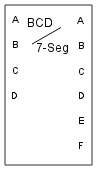
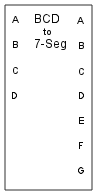
Updates

diff --git a/assets/shapes/index.js b/assets/shapes/index.js
@@ -1338,67 +1338,73 @@ var draw2d_circuit_decoder_BCDto7Seg = draw2d.SetFigure.extend({
 
    init:function(attr, setter, getter)
    {
-     this._super( $.extend({stroke:0, bgColor:null, width:87,height:160},attr), setter, getter);
+     this._super( $.extend({stroke:0, bgColor:null, width:87,height:185},attr), setter, getter);
      var port;
      // out_a
-     port = this.createPort("output", new draw2d.layout.locator.XYRelPortLocator(101.14942528735631, 9.375));
+     port = this.createPort("output", new draw2d.layout.locator.XYRelPortLocator(101.14942528735631, 8.108108108108109));
      port.setConnectionDirection(1);
      port.setBackgroundColor("#37B1DE");
      port.setName("out_a");
      port.setMaxFanOut(20);
      // out_b
-     port = this.createPort("output", new draw2d.layout.locator.XYRelPortLocator(101.14942528735631, 25));
+     port = this.createPort("output", new draw2d.layout.locator.XYRelPortLocator(101.14942528735631, 21.62162162162162));
      port.setConnectionDirection(1);
      port.setBackgroundColor("#37B1DE");
      port.setName("out_b");
      port.setMaxFanOut(20);
      // out_c
-     port = this.createPort("hybrid", new draw2d.layout.locator.XYRelPortLocator(101.14942528735631, 40.625));
+     port = this.createPort("output", new draw2d.layout.locator.XYRelPortLocator(101.14942528735631, 35.13513513513514));
      port.setConnectionDirection(1);
      port.setBackgroundColor("#37B1DE");
      port.setName("out_c");
      port.setMaxFanOut(20);
      // out_d
-     port = this.createPort("output", new draw2d.layout.locator.XYRelPortLocator(101.14942528735631, 56.25));
+     port = this.createPort("output", new draw2d.layout.locator.XYRelPortLocator(101.14942528735631, 48.64864864864865));
      port.setConnectionDirection(1);
      port.setBackgroundColor("#37B1DE");
      port.setName("out_d");
      port.setMaxFanOut(20);
      // out_e
-     port = this.createPort("output", new draw2d.layout.locator.XYRelPortLocator(101.14942528735631, 71.875));
+     port = this.createPort("output", new draw2d.layout.locator.XYRelPortLocator(101.14942528735631, 62.16216216216217));
      port.setConnectionDirection(1);
      port.setBackgroundColor("#37B1DE");
      port.setName("out_e");
      port.setMaxFanOut(20);
      // out_f
-     port = this.createPort("output", new draw2d.layout.locator.XYRelPortLocator(101.14942528735631, 87.5));
+     port = this.createPort("output", new draw2d.layout.locator.XYRelPortLocator(101.14942528735631, 75.67567567567568));
      port.setConnectionDirection(1);
      port.setBackgroundColor("#37B1DE");
      port.setName("out_f");
      port.setMaxFanOut(20);
      // in_a
-     port = this.addPort(new DecoratedInputPort(), new draw2d.layout.locator.XYRelPortLocator(-1.7563218390786532, 9.375));
+     port = this.addPort(new DecoratedInputPort(), new draw2d.layout.locator.XYRelPortLocator(-1.7563218390786532, 8.108108108108109));
      port.setConnectionDirection(3);
      port.setBackgroundColor("#37B1DE");
      port.setName("in_a");
      port.setMaxFanOut(20);
      // in_b
-     port = this.addPort(new DecoratedInputPort(), new draw2d.layout.locator.XYRelPortLocator(-1.7563218390786532, 25));
+     port = this.addPort(new DecoratedInputPort(), new draw2d.layout.locator.XYRelPortLocator(-1.7563218390786532, 21.62162162162162));
      port.setConnectionDirection(3);
      port.setBackgroundColor("#37B1DE");
      port.setName("in_b");
      port.setMaxFanOut(20);
      // in_c
-     port = this.addPort(new DecoratedInputPort(), new draw2d.layout.locator.XYRelPortLocator(-1.7563218390786532, 40.625));
+     port = this.addPort(new DecoratedInputPort(), new draw2d.layout.locator.XYRelPortLocator(-1.7563218390786532, 35.13513513513514));
      port.setConnectionDirection(3);
      port.setBackgroundColor("#37B1DE");
      port.setName("in_c");
      port.setMaxFanOut(20);
      // in_d
-     port = this.addPort(new DecoratedInputPort(), new draw2d.layout.locator.XYRelPortLocator(-2.2988505747126435, 56.25));
+     port = this.addPort(new DecoratedInputPort(), new draw2d.layout.locator.XYRelPortLocator(-2.2988505747126435, 48.64864864864865));
      port.setConnectionDirection(3);
      port.setBackgroundColor("#37B1DE");
      port.setName("in_d");
+     port.setMaxFanOut(20);
+     // out_g
+     port = this.createPort("output", new draw2d.layout.locator.XYRelPortLocator(101.14942528735631, 89.00583783783766));
+     port.setConnectionDirection(1);
+     port.setBackgroundColor("#37B1DE");
+     port.setName("out_g");
      port.setMaxFanOut(20);
      this.persistPorts=false;
    },
@@ -1407,7 +1413,7 @@ var draw2d_circuit_decoder_BCDto7Seg = draw2d.SetFigure.extend({
    {
       var shape = this._super();
       this.originalWidth = 87;
-      this.originalHeight= 160;
+      this.originalHeight= 185;
       return shape;
    },
 
@@ -1416,23 +1422,23 @@ var draw2d_circuit_decoder_BCDto7Seg = draw2d.SetFigure.extend({
        this.canvas.paper.setStart();
 
         // BoundingBox
-        shape = this.canvas.paper.path("M0,0 L87,0 L87,160 L0,160");
+        shape = this.canvas.paper.path("M0,0 L87,0 L87,185 L0,185");
         shape.attr({"stroke":"none","stroke-width":0,"fill":"none"});
         shape.data("name","BoundingBox");
         
         // undefined
-        shape = this.canvas.paper.path('M0 0L87 0L87 160L0 160Z');
+        shape = this.canvas.paper.path('M0 0L87 0L87 185L0 185Z');
         shape.attr({"stroke":"#303030","stroke-width":1,"fill":"#FFFFFF","opacity":1});
         shape.data("name","undefined");
         
         // Label
         shape = this.canvas.paper.text(0,0,'BCD');
-        shape.attr({"x":22.47200000000157,"y":18.25,"text-anchor":"start","text":"BCD","font-family":"\"Arial\"","font-size":12,"stroke":"none","fill":"#080808","stroke-scale":true,"font-weight":"normal","stroke-width":0,"opacity":1});
+        shape.attr({"x":29.3359375,"y":13.75,"text-anchor":"start","text":"BCD","font-family":"\"Arial\"","font-size":12,"stroke":"none","fill":"#080808","stroke-scale":true,"font-weight":"normal","stroke-width":0,"opacity":1});
         shape.data("name","Label");
         
         // Label
         shape = this.canvas.paper.text(0,0,'7-Seg');
-        shape.attr({"x":31.65625,"y":44.2421875,"text-anchor":"start","text":"7-Seg","font-family":"\"Arial\"","font-size":12,"stroke":"none","fill":"#080808","stroke-scale":true,"font-weight":"normal","stroke-width":0,"opacity":1});
+        shape.attr({"x":29.3359375,"y":39.25,"text-anchor":"start","text":"7-Seg","font-family":"\"Arial\"","font-size":12,"stroke":"none","fill":"#080808","stroke-scale":true,"font-weight":"normal","stroke-width":0,"opacity":1});
         shape.data("name","Label");
         
         // Label
@@ -1485,15 +1491,15 @@ var draw2d_circuit_decoder_BCDto7Seg = draw2d.SetFigure.extend({
         shape.attr({"x":6.472000000001572,"y":90.5,"text-anchor":"start","text":"D","font-family":"\"Arial\"","font-size":10,"stroke":"none","fill":"#080808","stroke-scale":true,"font-weight":"normal","stroke-width":0,"opacity":1});
         shape.data("name","Label");
         
-        // Line_shadow
-        shape = this.canvas.paper.path('M55.5 22.5L27.5,38.5');
-        shape.attr({"stroke-linecap":"round","stroke-linejoin":"round","stroke":"none","stroke-width":1,"opacity":1});
-        shape.data("name","Line_shadow");
+        // Label
+        shape = this.canvas.paper.text(0,0,'to');
+        shape.attr({"x":38.3359375,"y":26.9765625,"text-anchor":"start","text":"to","font-family":"\"Arial\"","font-size":10,"stroke":"none","fill":"#080808","stroke-scale":true,"font-weight":"normal","stroke-width":0,"opacity":1});
+        shape.data("name","Label");
         
-        // Line
-        shape = this.canvas.paper.path('M55.5 22.5L27.5,38.5');
-        shape.attr({"stroke-linecap":"round","stroke-linejoin":"round","stroke":"#0D0D0D","stroke-width":1,"opacity":1});
-        shape.data("name","Line");
+        // Label
+        shape = this.canvas.paper.text(0,0,'G');
+        shape.attr({"x":72,"y":165.5703999999996,"text-anchor":"start","text":"G","font-family":"\"Arial\"","font-size":10,"stroke":"none","fill":"#080808","stroke-scale":true,"font-weight":"normal","stroke-width":0,"opacity":1});
+        shape.data("name","Label");
         
 
         return this.canvas.paper.setFinish();
@@ -1654,6 +1660,18 @@ draw2d_circuit_decoder_BCDto7Seg = draw2d_circuit_decoder_BCDto7Seg.extend({
      **/
     calculate:function()
     {
+        var e = (this.getInputPort("in_a").getValue()?1:0) +
+                (this.getInputPort("in_b").getValue()?2:0) +
+                (this.getInputPort("in_c").getValue()?4:0) +
+                (this.getInputPort("in_d").getValue()?8:0);
+
+       this.getOutputPort("out_a").setValue( ((e!=1) &&(e!=4)&&(e!=6)&& (e<10)));
+       this.getOutputPort("out_b").setValue( ((e!=5) &&(e!=6)&& (e<10)));
+       this.getOutputPort("out_c").setValue( ((e!=2) &&(e<10)));
+       this.getOutputPort("out_d").setValue( (((e!=1)&&(e!=4)&&(e!=7))||(e>10)));
+       this.getOutputPort("out_e").setValue( (((e==0)||(e==2)||(e==6)||(e==8))||(e>9)));
+       this.getOutputPort("out_f").setValue( ((e!=1) &&(e!=2)&&(e!=3)&&(e!=7)&&(e<10)));
+       this.getOutputPort("out_g").setValue( (((e!=0)&&(e!=1)&&(e!=7))||(e>9)));
     },
 
 

diff --git a/assets/shapes/draw2d_circuit_decoder_BCDto7Seg.js b/assets/shapes/draw2d_circuit_decoder_BCDto7Seg.js
@@ -11,67 +11,73 @@ var draw2d_circuit_decoder_BCDto7Seg = draw2d.SetFigure.extend({
 
    init:function(attr, setter, getter)
    {
-     this._super( $.extend({stroke:0, bgColor:null, width:87,height:160},attr), setter, getter);
+     this._super( $.extend({stroke:0, bgColor:null, width:87,height:185},attr), setter, getter);
      var port;
      // out_a
-     port = this.createPort("output", new draw2d.layout.locator.XYRelPortLocator(101.14942528735631, 9.375));
+     port = this.createPort("output", new draw2d.layout.locator.XYRelPortLocator(101.14942528735631, 8.108108108108109));
      port.setConnectionDirection(1);
      port.setBackgroundColor("#37B1DE");
      port.setName("out_a");
      port.setMaxFanOut(20);
      // out_b
-     port = this.createPort("output", new draw2d.layout.locator.XYRelPortLocator(101.14942528735631, 25));
+     port = this.createPort("output", new draw2d.layout.locator.XYRelPortLocator(101.14942528735631, 21.62162162162162));
      port.setConnectionDirection(1);
      port.setBackgroundColor("#37B1DE");
      port.setName("out_b");
      port.setMaxFanOut(20);
      // out_c
-     port = this.createPort("hybrid", new draw2d.layout.locator.XYRelPortLocator(101.14942528735631, 40.625));
+     port = this.createPort("output", new draw2d.layout.locator.XYRelPortLocator(101.14942528735631, 35.13513513513514));
      port.setConnectionDirection(1);
      port.setBackgroundColor("#37B1DE");
      port.setName("out_c");
      port.setMaxFanOut(20);
      // out_d
-     port = this.createPort("output", new draw2d.layout.locator.XYRelPortLocator(101.14942528735631, 56.25));
+     port = this.createPort("output", new draw2d.layout.locator.XYRelPortLocator(101.14942528735631, 48.64864864864865));
      port.setConnectionDirection(1);
      port.setBackgroundColor("#37B1DE");
      port.setName("out_d");
      port.setMaxFanOut(20);
      // out_e
-     port = this.createPort("output", new draw2d.layout.locator.XYRelPortLocator(101.14942528735631, 71.875));
+     port = this.createPort("output", new draw2d.layout.locator.XYRelPortLocator(101.14942528735631, 62.16216216216217));
      port.setConnectionDirection(1);
      port.setBackgroundColor("#37B1DE");
      port.setName("out_e");
      port.setMaxFanOut(20);
      // out_f
-     port = this.createPort("output", new draw2d.layout.locator.XYRelPortLocator(101.14942528735631, 87.5));
+     port = this.createPort("output", new draw2d.layout.locator.XYRelPortLocator(101.14942528735631, 75.67567567567568));
      port.setConnectionDirection(1);
      port.setBackgroundColor("#37B1DE");
      port.setName("out_f");
      port.setMaxFanOut(20);
      // in_a
-     port = this.addPort(new DecoratedInputPort(), new draw2d.layout.locator.XYRelPortLocator(-1.7563218390786532, 9.375));
+     port = this.addPort(new DecoratedInputPort(), new draw2d.layout.locator.XYRelPortLocator(-1.7563218390786532, 8.108108108108109));
      port.setConnectionDirection(3);
      port.setBackgroundColor("#37B1DE");
      port.setName("in_a");
      port.setMaxFanOut(20);
      // in_b
-     port = this.addPort(new DecoratedInputPort(), new draw2d.layout.locator.XYRelPortLocator(-1.7563218390786532, 25));
+     port = this.addPort(new DecoratedInputPort(), new draw2d.layout.locator.XYRelPortLocator(-1.7563218390786532, 21.62162162162162));
      port.setConnectionDirection(3);
      port.setBackgroundColor("#37B1DE");
      port.setName("in_b");
      port.setMaxFanOut(20);
      // in_c
-     port = this.addPort(new DecoratedInputPort(), new draw2d.layout.locator.XYRelPortLocator(-1.7563218390786532, 40.625));
+     port = this.addPort(new DecoratedInputPort(), new draw2d.layout.locator.XYRelPortLocator(-1.7563218390786532, 35.13513513513514));
      port.setConnectionDirection(3);
      port.setBackgroundColor("#37B1DE");
      port.setName("in_c");
      port.setMaxFanOut(20);
      // in_d
-     port = this.addPort(new DecoratedInputPort(), new draw2d.layout.locator.XYRelPortLocator(-2.2988505747126435, 56.25));
+     port = this.addPort(new DecoratedInputPort(), new draw2d.layout.locator.XYRelPortLocator(-2.2988505747126435, 48.64864864864865));
      port.setConnectionDirection(3);
      port.setBackgroundColor("#37B1DE");
      port.setName("in_d");
+     port.setMaxFanOut(20);
+     // out_g
+     port = this.createPort("output", new draw2d.layout.locator.XYRelPortLocator(101.14942528735631, 89.00583783783766));
+     port.setConnectionDirection(1);
+     port.setBackgroundColor("#37B1DE");
+     port.setName("out_g");
      port.setMaxFanOut(20);
      this.persistPorts=false;
    },
@@ -80,7 +86,7 @@ var draw2d_circuit_decoder_BCDto7Seg = draw2d.SetFigure.extend({
    {
       var shape = this._super();
       this.originalWidth = 87;
-      this.originalHeight= 160;
+      this.originalHeight= 185;
       return shape;
    },
 
@@ -89,23 +95,23 @@ var draw2d_circuit_decoder_BCDto7Seg = draw2d.SetFigure.extend({
        this.canvas.paper.setStart();
 
         // BoundingBox
-        shape = this.canvas.paper.path("M0,0 L87,0 L87,160 L0,160");
+        shape = this.canvas.paper.path("M0,0 L87,0 L87,185 L0,185");
         shape.attr({"stroke":"none","stroke-width":0,"fill":"none"});
         shape.data("name","BoundingBox");
         
         // undefined
-        shape = this.canvas.paper.path('M0 0L87 0L87 160L0 160Z');
+        shape = this.canvas.paper.path('M0 0L87 0L87 185L0 185Z');
         shape.attr({"stroke":"#303030","stroke-width":1,"fill":"#FFFFFF","opacity":1});
         shape.data("name","undefined");
         
         // Label
         shape = this.canvas.paper.text(0,0,'BCD');
-        shape.attr({"x":22.47200000000157,"y":18.25,"text-anchor":"start","text":"BCD","font-family":"\"Arial\"","font-size":12,"stroke":"none","fill":"#080808","stroke-scale":true,"font-weight":"normal","stroke-width":0,"opacity":1});
+        shape.attr({"x":29.3359375,"y":13.75,"text-anchor":"start","text":"BCD","font-family":"\"Arial\"","font-size":12,"stroke":"none","fill":"#080808","stroke-scale":true,"font-weight":"normal","stroke-width":0,"opacity":1});
         shape.data("name","Label");
         
         // Label
         shape = this.canvas.paper.text(0,0,'7-Seg');
-        shape.attr({"x":31.65625,"y":44.2421875,"text-anchor":"start","text":"7-Seg","font-family":"\"Arial\"","font-size":12,"stroke":"none","fill":"#080808","stroke-scale":true,"font-weight":"normal","stroke-width":0,"opacity":1});
+        shape.attr({"x":29.3359375,"y":39.25,"text-anchor":"start","text":"7-Seg","font-family":"\"Arial\"","font-size":12,"stroke":"none","fill":"#080808","stroke-scale":true,"font-weight":"normal","stroke-width":0,"opacity":1});
         shape.data("name","Label");
         
         // Label
@@ -158,15 +164,15 @@ var draw2d_circuit_decoder_BCDto7Seg = draw2d.SetFigure.extend({
         shape.attr({"x":6.472000000001572,"y":90.5,"text-anchor":"start","text":"D","font-family":"\"Arial\"","font-size":10,"stroke":"none","fill":"#080808","stroke-scale":true,"font-weight":"normal","stroke-width":0,"opacity":1});
         shape.data("name","Label");
         
-        // Line_shadow
-        shape = this.canvas.paper.path('M55.5 22.5L27.5,38.5');
-        shape.attr({"stroke-linecap":"round","stroke-linejoin":"round","stroke":"none","stroke-width":1,"opacity":1});
-        shape.data("name","Line_shadow");
+        // Label
+        shape = this.canvas.paper.text(0,0,'to');
+        shape.attr({"x":38.3359375,"y":26.9765625,"text-anchor":"start","text":"to","font-family":"\"Arial\"","font-size":10,"stroke":"none","fill":"#080808","stroke-scale":true,"font-weight":"normal","stroke-width":0,"opacity":1});
+        shape.data("name","Label");
         
-        // Line
-        shape = this.canvas.paper.path('M55.5 22.5L27.5,38.5');
-        shape.attr({"stroke-linecap":"round","stroke-linejoin":"round","stroke":"#0D0D0D","stroke-width":1,"opacity":1});
-        shape.data("name","Line");
+        // Label
+        shape = this.canvas.paper.text(0,0,'G');
+        shape.attr({"x":72,"y":165.5703999999996,"text-anchor":"start","text":"G","font-family":"\"Arial\"","font-size":10,"stroke":"none","fill":"#080808","stroke-scale":true,"font-weight":"normal","stroke-width":0,"opacity":1});
+        shape.data("name","Label");
         
 
         return this.canvas.paper.setFinish();
@@ -327,6 +333,18 @@ draw2d_circuit_decoder_BCDto7Seg = draw2d_circuit_decoder_BCDto7Seg.extend({
      **/
     calculate:function()
     {
+        var e = (this.getInputPort("in_a").getValue()?1:0) +
+                (this.getInputPort("in_b").getValue()?2:0) +
+                (this.getInputPort("in_c").getValue()?4:0) +
+                (this.getInputPort("in_d").getValue()?8:0);
+
+       this.getOutputPort("out_a").setValue( ((e!=1) &&(e!=4)&&(e!=6)&& (e<10)));
+       this.getOutputPort("out_b").setValue( ((e!=5) &&(e!=6)&& (e<10)));
+       this.getOutputPort("out_c").setValue( ((e!=2) &&(e<10)));
+       this.getOutputPort("out_d").setValue( (((e!=1)&&(e!=4)&&(e!=7))||(e>10)));
+       this.getOutputPort("out_e").setValue( (((e==0)||(e==2)||(e==6)||(e==8))||(e>9)));
+       this.getOutputPort("out_f").setValue( ((e!=1) &&(e!=2)&&(e!=3)&&(e!=7)&&(e<10)));
+       this.getOutputPort("out_g").setValue( (((e!=0)&&(e!=1)&&(e!=7))||(e>9)));
     },
 
 
